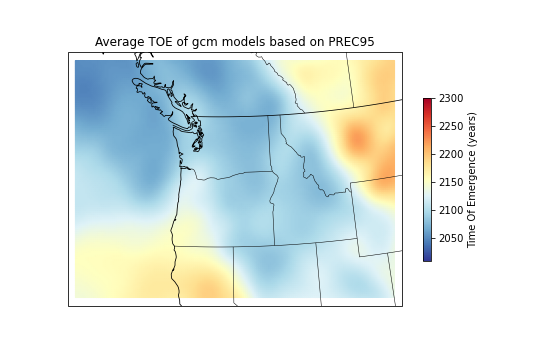
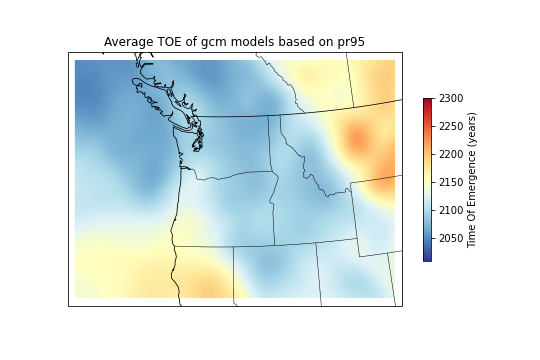
created ensemble plotting for TOE Averages

Changed region(s): [[0.1778, 0.0917, 0.7111, 0.1528]]

diff --git a/src/enbemble_Plotting.py b/src/enbemble_Plotting.py
@@ -287,8 +287,88 @@ def Generate_Three_Pane_TOE_Plots():
 
              new_im.save("Ensemble TOE Plots"+ "\\" + "Ensemble TOE Plot with "+ model + " based on " + precipitation_Type+".png")
     
-        
+def Generate_Three_Pane_Average_Plots(): 
+    t_Data_Types = ["tasmax90"]
+    p_Data_Types = ["pr95"]
+    avg_Folder = r"Average TOE of Models Plots"
+    for temperature_Type in t_Data_Types:
+        Images = []
+        wrf_Data_Type = " "
+        if(temperature_Type == "tasmax90"):
+            wrf_Data_Type = "T2MAX90"
+        elif(temperature_Type == "tasmaxx"):
+            wrf_Data_Type = "T2MAXx"
+        elif(temperature_Type !="tasmax90" and temperature_Type != "tasmaxx"):
+            print("invalid temperature_Type")
+            return 1
+        for WRF_IMG in os.listdir(avg_Folder):
+            WRF_IMG_HEAD , WRF_IMG_TAIL = os.path.split(WRF_IMG)
+            if(WRF_IMG_TAIL.__str__().find(wrf_Data_Type)>=0 and WRF_IMG_TAIL.__str__().find("SDV")==-1):
+                Images.append(Image.open(avg_Folder + "\\"+ WRF_IMG))
+        for GCM_IMG in os.listdir(avg_Folder): 
+            GCM_IMG_HEAD , GCM_IMG_TAIL = os.path.split(GCM_IMG)
+            if(GCM_IMG_TAIL.__str__().find(temperature_Type)>=0 and GCM_IMG_TAIL.__str__().find("SDV")==-1 and GCM_IMG_TAIL.__str__().find("Difference")==-1):
+                Images.append(Image.open(avg_Folder + "\\"+GCM_IMG))
+        for Delta_IMG in os.listdir(avg_Folder): 
+            Delta_IMG_HEAD , Delta_IMG_TAIL = os.path.split(Delta_IMG)
+            if(Delta_IMG_TAIL.__str__().find("Difference")>=0 and Delta_IMG_TAIL.__str__().find(temperature_Type)>=0):
+                Images.append(Image.open(avg_Folder + "\\"+Delta_IMG))
+       
+    
+        widths, heights = zip(*(i.size for i in Images))
+       
+        total_width = sum(widths)
+        max_height = max(heights)
+       
+        new_im = Image.new('RGBA', (total_width, max_height))
+       
+        x_offset = 0
+        for im in Images:
+            new_im.paste(im, (x_offset,0))
+            x_offset += im.size[0]
+    
+        new_im.save("Ensemble Average TOE Plots"+ "\\" + "Ensemble  Average TOE Plot based on " + temperature_Type+".png")
+    for precipitation_Type in p_Data_Types:
+        Images = []
+        wrf_Data_Type = " "
+        if(precipitation_Type == "pr95"):
+            wrf_Data_Type = "PREC95"
+        elif(precipitation_Type == "prx"):
+            wrf_Data_Type = "PRECx"
+        elif(precipitation_Type != "prx" and precipitation_Type != "pr95"):
+            print("invalid precipitation_Type")
+            return 1
+        for WRF_IMG in os.listdir(avg_Folder):
+            WRF_IMG_HEAD , WRF_IMG_TAIL = os.path.split(WRF_IMG)
+            if(WRF_IMG_TAIL.__str__().find(wrf_Data_Type)>=0 and WRF_IMG_TAIL.__str__().find("SDV")==-1):
+                Images.append(Image.open(avg_Folder + "\\"+ WRF_IMG))
+                
+        for GCM_IMG in os.listdir(avg_Folder): 
+            GCM_IMG_HEAD , GCM_IMG_TAIL = os.path.split(GCM_IMG)
+            if(GCM_IMG_TAIL.__str__().find(precipitation_Type)>=0 and GCM_IMG_TAIL.__str__().find("SDV")==-1 and GCM_IMG_TAIL.__str__().find("Difference")==-1):
+                Images.append(Image.open(avg_Folder + "\\"+GCM_IMG))
+                
+        for Delta_IMG in os.listdir(avg_Folder): 
+            Delta_IMG_HEAD , Delta_IMG_TAIL = os.path.split(Delta_IMG)
+            if(Delta_IMG_TAIL.__str__().find("Difference")>=0 and Delta_IMG_TAIL.__str__().find(precipitation_Type)>=0):
+                Images.append(Image.open(avg_Folder + "\\"+Delta_IMG))
+                
+       
+        widths, heights = zip(*(i.size for i in Images))
+       
+        total_width = sum(widths)
+        max_height = max(heights)
+       
+        new_im = Image.new('RGBA', (total_width, max_height))
+       
+        x_offset = 0
+        for im in Images:
+            new_im.paste(im, (x_offset,0))
+            x_offset += im.size[0]
+    
+        new_im.save("Ensemble Average TOE Plots"+ "\\" + "Ensemble  Average TOE Plot based on " + precipitation_Type+".png")
 #execute
-Generate_Three_Pane_TOE_Plots()
-Generate_Three_Pane_SDV_Plots()
-Generate_Three_Pane_Slope_Plots()
+# Generate_Three_Pane_TOE_Plots()
+# Generate_Three_Pane_SDV_Plots()
+# Generate_Three_Pane_Slope_Plots()
+Generate_Three_Pane_Average_Plots()

diff --git a/src/Calculate_Average_of_Model_Types.py b/src/Calculate_Average_of_Model_Types.py
@@ -299,7 +299,7 @@ def plot_Averages(avg_File):
         plt.savefig(average_Plots_Folder + "//" + "Average TOE of wrf models based on " + wrf_Data_Type + ".png")
         plt.figure(figsize=(7.5,5))
         WRFplot(avg_GCM_TOE, avg_lat, avg_lon,  2010,2300,
-                "Average TOE of gcm models based on " + wrf_Data_Type,"Time Of Emergence (years)", "RdYlBu_r")
+                "Average TOE of gcm models based on " + gcm_Data_Type,"Time Of Emergence (years)", "RdYlBu_r")
         plt.savefig(average_Plots_Folder + "//" + "Average TOE of gcm models based on " + gcm_Data_Type + ".png")
         
         plt.figure(figsize=(7.5,5))
@@ -390,5 +390,7 @@ gcm_Folder = r"Netcdf_Files" + "\\" +"gcm_Netcdf_Files"
 
 
 
-# p
+# Calculate_gcm_Average_TOE_of_Model_Types(avg_File)
+# Calculate_wrf_Average_TOE_of_Model_Types(avg_File)
+# Calculate_Difference_Between_Averages(avg_File)
 plot_Averages(avg_File)
